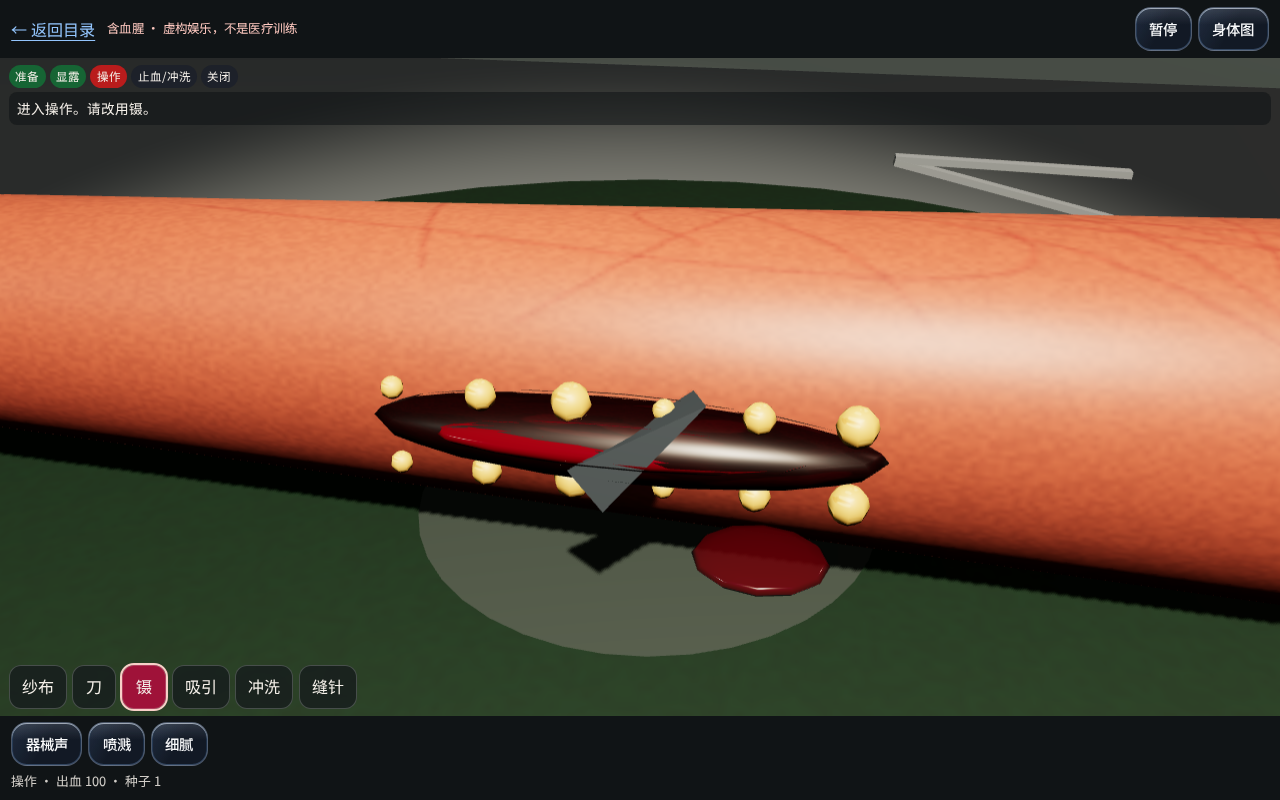
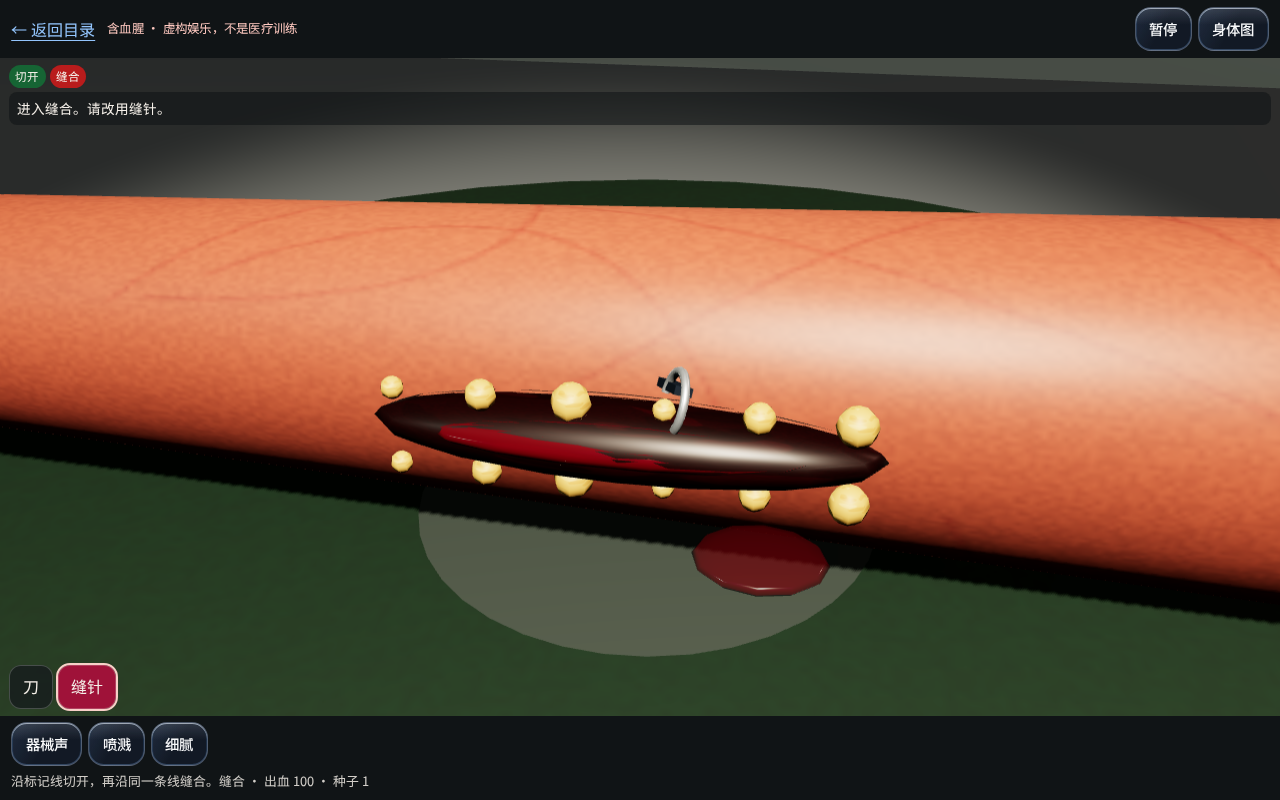
fix(op): park scalpel and needle on the wound line
Keep the marked cut line on the skin, hide the guide during sew so the
open wound stays visible, and rest the two tools over each region instead
of a floating slab at the old UV height.

diff --git a/web/src/lib/games/op/render.ts b/web/src/lib/games/op/render.ts
@@ -517,18 +517,27 @@ export function mountOpScene(canvas: HTMLCanvasElement): OpScene | null {
 	const tools = new THREE.Group();
 	fieldRoot.add(tools);
 	const scalpel = new THREE.Group();
-	const blade = new THREE.Mesh(keepG(new THREE.BoxGeometry(0.32, 0.012, 0.05)), steelM);
-	blade.position.x = 0.16;
+	const blade = new THREE.Mesh(keepG(new THREE.BoxGeometry(0.2, 0.008, 0.034)), steelM);
+	blade.position.x = 0.11;
 	const handle = new THREE.Mesh(
-		keepG(new THREE.CylinderGeometry(0.02, 0.024, 0.34, 8)),
+		keepG(new THREE.CylinderGeometry(0.013, 0.016, 0.16, 8)),
 		keepM(std(0x1f2937, { metalness: 0.4 }))
 	);
 	handle.rotation.z = Math.PI / 2;
-	handle.position.x = -0.1;
+	handle.position.x = -0.05;
 	scalpel.add(blade, handle);
 	const needle = new THREE.Group();
-	needle.add(new THREE.Mesh(keepG(new THREE.CylinderGeometry(0.01, 0.01, 0.34, 6)), steelM));
-	needle.rotation.z = 0.65;
+	const needleArc = new THREE.Mesh(
+		keepG(new THREE.TorusGeometry(0.048, 0.007, 8, 18, Math.PI * 1.2)),
+		steelM
+	);
+	needleArc.rotation.set(0.2, Math.PI / 2, 0);
+	const holder = new THREE.Mesh(
+		keepG(new THREE.BoxGeometry(0.028, 0.014, 0.09)),
+		keepM(std(0x1f2937, { metalness: 0.45, roughness: 0.4 }))
+	);
+	holder.position.set(0.01, 0.02, -0.04);
+	needle.add(needleArc, holder);
 	const toolMap: Record<ToolId, Group | Mesh> = { scalpel, needle };
 	for (const t of Object.values(toolMap)) {
 		t.visible = false;
@@ -536,8 +545,8 @@ export function mountOpScene(canvas: HTMLCanvasElement): OpScene | null {
 		tools.add(t);
 	}
 	const guide = new THREE.Mesh(
-		keepG(new THREE.BoxGeometry(1, 0.018, 0.055)),
-		keepM(std(0xfde68a, { emissive: 0xf59e0b, emissiveIntensity: 1.35, roughness: 0.35 }))
+		keepG(new THREE.BoxGeometry(1, 0.006, 0.016)),
+		keepM(std(0xfde68a, { emissive: 0xf59e0b, emissiveIntensity: 1.55, roughness: 0.3 }))
 	);
 	guide.visible = false;
 	fieldRoot.add(guide);
@@ -570,8 +579,11 @@ export function mountOpScene(canvas: HTMLCanvasElement): OpScene | null {
 		camera.updateProjectionMatrix();
 	}
 
-	function uvWorld(x: number, y: number) {
-		return new THREE.Vector3((x - 0.5) * 1.5, 1.28, (0.42 - y) * 0.85);
+	function woundAnchor(id: RegionId) {
+		if (id === 'knee') return { x: 0, y: 1.12, z: 0.38, span: 0.62, toolY: 1.24, toolZ: 0.5 };
+		if (id === 'tooth') return { x: 0, y: 1.2, z: 0.42, span: 0.34, toolY: 1.34, toolZ: 0.54 };
+		if (id === 'belly') return { x: 0, y: 1.4, z: 0.12, span: 0.28, toolY: 1.52, toolZ: 0.28 };
+		return { x: 0, y: 1.06, z: 0.3, span: 0.72, toolY: 1.18, toolZ: 0.46 };
 	}
 
 	function sync(world: OpWorld) {
@@ -603,6 +615,10 @@ export function mountOpScene(canvas: HTMLCanvasElement): OpScene | null {
 		wellF.position.set(0, 0.99, 0.16 + open * 0.08);
 		filmF.scale.set(2.1 + open * 0.7, 0.14 + open * 0.1, 0.28 + open * 0.18);
 		filmF.position.set(0, 1.0, 0.2 + open * 0.08);
+		wellK.scale.set(0.7 + open * 0.75, 0.14 + open * 0.24, 0.28 + open * 0.27);
+		wellK.visible = world.region === 'knee' && open > 0.12;
+		wellB.scale.set(0.45 + open * 0.6, 0.2 + open * 0.35, 0.45 + open * 0.6);
+		wellB.visible = world.region === 'belly' && open > 0.12;
 		patella.visible = world.region === 'knee' && open < 0.45;
 		wellF.visible = world.region === 'forearm' && open > 0.08;
 		bone.visible = world.region === 'forearm' && open > 0.25;
@@ -625,8 +641,8 @@ export function mountOpScene(canvas: HTMLCanvasElement): OpScene | null {
 			ch.rotation.set(Math.PI / 2, 0, 0);
 			if (world.region === 'forearm') ch.position.set(x, 1.04, 0.3);
 			else if (world.region === 'knee') ch.position.set(x * 0.65, 1.1, 0.34);
-			else if (world.region === 'tooth') ch.position.set(x * 0.22, 1.38, 0.12);
-			else ch.position.set(x * 0.18, 1.36, 0.06);
+			else if (world.region === 'tooth') ch.position.set(x * 0.2, 1.22, 0.38);
+			else ch.position.set(x * 0.16, 1.38, 0.08);
 		});
 
 		const wetField = world.view === 'field' && open > 0.12;
@@ -659,16 +675,13 @@ export function mountOpScene(canvas: HTMLCanvasElement): OpScene | null {
 		drops.instanceMatrix.needsUpdate = true;
 		drops.visible = n > 0 && wetField;
 
-		if (world.view === 'field' && world.region && world.phase !== 'done') {
-			const lay = fieldLayout(world.region, world.seed);
-			const a = uvWorld(lay.path.x0, lay.path.y0);
-			const b = uvWorld(lay.path.x1, lay.path.y1);
+		const lay = world.region ? fieldLayout(world.region, world.seed) : null;
+		if (world.view === 'field' && world.region && lay && world.phase === 'cut') {
+			const a = woundAnchor(world.region);
 			guide.visible = true;
-			guide.position.copy(a).lerp(b, 0.5);
-			guide.position.y += 0.08;
-			const span = Math.max(0.2, a.distanceTo(b));
-			guide.scale.set(span, 1, 1);
-			guide.lookAt(b.x, guide.position.y, b.z);
+			guide.quaternion.identity();
+			guide.position.set(a.x, a.y, a.z);
+			guide.scale.set(a.span, 1, 1);
 		} else {
 			guide.visible = false;
 		}
@@ -676,11 +689,13 @@ export function mountOpScene(canvas: HTMLCanvasElement): OpScene | null {
 		for (const [id, obj] of Object.entries(toolMap)) {
 			obj.visible = world.view === 'field' && world.tool === (id as ToolId);
 		}
-		const at = uvWorld(world.px, world.py);
-		at.y += 0.16;
-		at.z += 0.12;
-		tools.position.copy(at);
-		tools.rotation.z = world.pointerDown ? -0.35 : -0.12;
+		if (world.view === 'field' && world.region) {
+			const a = woundAnchor(world.region);
+			const follow = world.pointerDown ? (world.px - 0.5) * a.span : 0.1;
+			tools.position.set(a.x + follow, a.toolY, a.toolZ);
+			tools.rotation.set(-0.38, 0.42, world.pointerDown ? -0.4 : -0.18);
+			tools.scale.setScalar(world.region === 'belly' || world.region === 'tooth' ? 0.62 : 0.72);
+		}
 	}
 
 	function render(_now: number) {

diff --git a/web/e2e/operation.e2e.ts b/web/e2e/operation.e2e.ts
@@ -159,6 +159,8 @@ test.describe('手术', () => {
 		await page.setViewportSize({ width: 1280, height: 800 });
 		await ackAndHub(page);
 		await enterRegion(page, '前臂', 'forearm');
+		await page.waitForTimeout(200);
+		await shot(page, 'operation-forearm-cut-1280');
 		await expect(page.getByRole('button', { name: '吸引' })).toHaveCount(0);
 		await expect(page.getByRole('button', { name: '冲洗' })).toHaveCount(0);
 		await expect(page.getByRole('button', { name: '纱布' })).toHaveCount(0);
